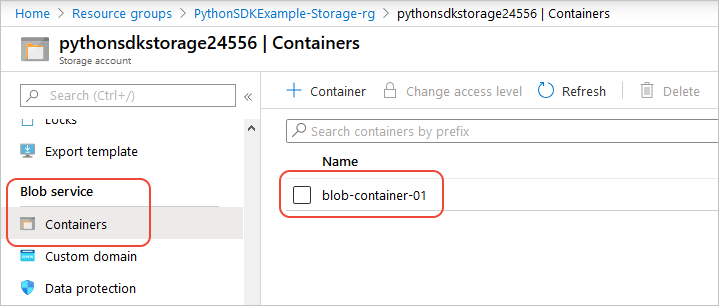
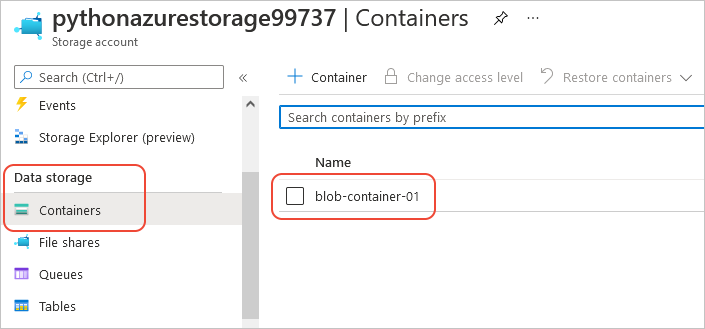
Update storage articles with code refs (and update images)

diff --git a/articles/python/azure-sdk-example-storage.md b/articles/python/azure-sdk-example-storage.md
@@ -1,7 +1,7 @@
 ---
 title: Provision Azure Storage with the Azure libraries for Python
 description: Use the Azure SDK for Python libraries to provision a blob container in an Azure Storage account and then upload a file to that container.
-ms.date: 03/16/2021
+ms.date: 06/24/2021
 ms.topic: conceptual
 ms.custom: devx-track-python, devx-track-azurecli
 ---
@@ -16,7 +16,7 @@ All the commands in this article work the same in Linux/macOS bash and Windows c
 
 ## 1: Set up your local development environment
 
-If you haven't already, follow all the instructions on [Configure your local Python dev environment for Azure](configure-local-development-environment.md).
+If you haven't already, **follow all the instructions** on [Configure your local Python dev environment for Azure](configure-local-development-environment.md).
 
 Be sure to create a service principal for local development, and create and activate a virtual environment for this project.
 
@@ -24,11 +24,7 @@ Be sure to create a service principal for local development, and create and acti
 
 1. Create a *requirements.txt* file that lists the management libraries used in this example:
 
-    ```txt
-    azure-mgmt-resource
-    azure-mgmt-storage
-    azure-identity
-    ```
+    :::code language="text" source="~/../python-sdk-examples/storage/requirements_provision.txt":::
 
 1. In your terminal with the virtual environment activated, install the requirements:
 
@@ -42,97 +38,7 @@ This section describes how to provision storage resources from Python code. If y
 
 Create a Python file named *provision_blob.py* with the following code. The comments explain the details:
 
-```python
-import os, random
-
-# Import the needed management objects from the libraries. The azure.common library
-# is installed automatically with the other libraries.
-from azure.identity import AzureCliCredential
-from azure.mgmt.resource import ResourceManagementClient
-from azure.mgmt.storage import StorageManagementClient
-
-# Acquire a credential object using CLI-based authentication.
-credential = AzureCliCredential()
-
-# Retrieve subscription ID from environment variable.
-subscription_id = os.environ["AZURE_SUBSCRIPTION_ID"]
-
-# Obtain the management object for resources.
-resource_client = ResourceManagementClient(credential, subscription_id)
-
-# Constants we need in multiple places: the resource group name and the region
-# in which we provision resources. You can change these values however you want.
-RESOURCE_GROUP_NAME = "PythonAzureExample-Storage-rg"
-LOCATION = "centralus"
-
-# Step 1: Provision the resource group.
-
-rg_result = resource_client.resource_groups.create_or_update(RESOURCE_GROUP_NAME,
-    { "location": LOCATION })
-
-print(f"Provisioned resource group {rg_result.name}")
-
-# For details on the previous code, see Example: Provision a resource group
-# at https://docs.microsoft.com/azure/developer/python/azure-sdk-example-resource-group
-
-
-# Step 2: Provision the storage account, starting with a management object.
-
-storage_client = StorageManagementClient(credential, subscription_id)
-
-# This example uses the CLI profile credentials because we assume the script
-# is being used to provision the resource in the same way the Azure CLI would be used.
-
-STORAGE_ACCOUNT_NAME = f"pythonazurestorage{random.randint(1,100000):05}"
-
-# You can replace the storage account here with any unique name. A random number is used
-# by default, but note that the name changes every time you run this script.
-# The name must be 3-24 lower case letters and numbers only.
-
-
-# Check if the account name is available. Storage account names must be unique across
-# Azure because they're used in URLs.
-availability_result = storage_client.storage_accounts.check_name_availability(
-    { "name": STORAGE_ACCOUNT_NAME }
-)
-
-if not availability_result.name_available:
-    print(f"Storage name {STORAGE_ACCOUNT_NAME} is already in use. Try another name.")
-    exit()
-
-# The name is available, so provision the account
-poller = storage_client.storage_accounts.begin_create(RESOURCE_GROUP_NAME, STORAGE_ACCOUNT_NAME,
-    {
-        "location" : LOCATION,
-        "kind": "StorageV2",
-        "sku": {"name": "Standard_LRS"}
-    }
-)
-
-# Long-running operations return a poller object; calling poller.result()
-# waits for completion.
-account_result = poller.result()
-print(f"Provisioned storage account {account_result.name}")
-
-
-# Step 3: Retrieve the account's primary access key and generate a connection string.
-keys = storage_client.storage_accounts.list_keys(RESOURCE_GROUP_NAME, STORAGE_ACCOUNT_NAME)
-
-print(f"Primary key for storage account: {keys.keys[0].value}")
-
-conn_string = f"DefaultEndpointsProtocol=https;EndpointSuffix=core.windows.net;AccountName={STORAGE_ACCOUNT_NAME};AccountKey={keys.keys[0].value}"
-
-print(f"Connection string: {conn_string}")
-
-# Step 4: Provision the blob container in the account (this call is synchronous)
-CONTAINER_NAME = "blob-container-01"
-container = storage_client.blob_containers.create(RESOURCE_GROUP_NAME, STORAGE_ACCOUNT_NAME, CONTAINER_NAME, {})
-
-# The fourth argument is a required BlobContainer object, but because we don't need any
-# special values there, so we just pass empty JSON.
-
-print(f"Provisioned blob container {container.name}")
-```
+:::code language="python" source="~/../python-sdk-examples/storage/provision_blob.py":::
 
 [!INCLUDE [cli-auth-note](includes/cli-auth-note.md)]
 
@@ -152,11 +58,11 @@ The script will take a minute or two to complete.
 
 ## 5: Verify the resources
 
-1. Open the [Azure portal](https://portal.azure.com) to verify that the resource group and storage account were provisioned as expected. You may need to select **Show hidden types** in the resource group to see a storage account provisioned from a Python script:
+1. Open the [Azure portal](https://portal.azure.com) to verify that the resource group and storage account were provisioned as expected. You may need to wait a minute and also select **Show hidden types** in the resource group to see a storage account provisioned from a Python script:
 
     ![Azure portal page for the new resource group, showing the storage account](media/azure-sdk-example-storage/portal-show-hidden-types.png)
 
-1. Select the storage account, then select **Blob service** > **Containers** in the left-hand menu to verify that the "bloc-container-01" appears:
+1. Select the storage account, then select **Data storage** > **Containers** in the left-hand menu to verify that the "blob-container-01" appears:
 
     ![Azure portal page for the storage account showing the blob container](media/azure-sdk-example-storage/portal-show-blob-containers.png)
 
@@ -170,51 +76,11 @@ The following Azure CLI commands complete the same provisioning steps as the Pyt
 
 # [cmd](#tab/cmd)
 
-```azurecli
-rem Provision the resource group
-
-az group create -n PythonAzureExample-Storage-rg -l centralus
-
-rem Provision the storage account
-
-az storage account create -g PythonAzureExample-Storage-rg -l centralus ^
-    -n pythonazurestorage12345 --kind StorageV2 --sku Standard_LRS
-
-rem Retrieve the connection string
-
-az storage account show-connection-string -g PythonAzureExample-Storage-rg ^
-    -n pythonazurestorage12345
-
-rem Provision the blob container; NOTE: this command assumes you have an environment variable
-rem named AZURE_STORAGE_CONNECTION_STRING with the connection string for the storage account.
-
-set AZURE_STORAGE_CONNECTION_STRING=<connection_string>
-az storage container create --account-name pythonazurestorage12345 -n blob-container-01
-```
+:::code language="azurecli" source="~/../python-sdk-examples/storage/provision.cmd":::
 
 # [bash](#tab/bash)
 
-```azurecli
-# Provision the resource group
-
-az group create -n PythonAzureExample-Storage-rg -l centralus
-
-# Provision the storage account
-
-az storage account create -g PythonAzureExample-Storage-rg -l centralus \
-    -n pythonazurestorage12345 --kind StorageV2 --sku Standard_LRS
-
-# Retrieve the connection string
-
-az storage account show-connection-string -g PythonAzureExample-Storage-rg \
-    -n pythonazurestorage12345
-
-# Provision the blob container; NOTE: this command assumes you have an environment variable
-# named AZURE_STORAGE_CONNECTION_STRING with the connection string for the storage account.
-
-AZURE_STORAGE_CONNECTION_STRING=<connection_string>
-az storage container create --account-name pythonazurestorage12345 -n blob-container-01
-```
+:::code language="azurecli" source="~/../python-sdk-examples/storage/provision.sh":::
 
 ---
 

diff --git a/articles/python/azure-sdk-example-storage-use.md b/articles/python/azure-sdk-example-storage-use.md
@@ -1,7 +1,7 @@
 ---
 title: Use Azure Storage with the Azure SDK for Python
 description: Use the Azure SDK for Python libraries to access a pre-provisioned blob container in an Azure Storage account and then upload a file to that container.
-ms.date: 03/16/2021
+ms.date: 06/24/2021
 ms.topic: conceptual
 ms.custom: devx-track-python, devx-track-azurecli
 ---
@@ -14,27 +14,15 @@ All the commands in this article work the same in Linux/macOS bash and Windows c
 
 ## 1: Set up your local development environment
 
-If you haven't already, follow all the instructions on [Configure your local Python dev environment for Azure](configure-local-development-environment.md).
+If you haven't already, **follow all the instructions** on [Configure your local Python dev environment for Azure](configure-local-development-environment.md).
 
 Be sure to create a service principal for local development, set environment variables for the service principal (see below), and create and activate a virtual environment for this project.
-
-This example assumes you've already set the following environment variables:
-
-| Variable name | Expected value |
-| --- | --- |
-| AZURE_SUBSCRIPTION_ID | The GUID of your Azure subscription. |
-| AZURE_CLIENT_ID | The client ID of your local service principal. |
-| AZURE_CLIENT_SECRET | The client secret of your service principal. |
-| AZURE_TENANT_ID | The tenant ID for your service principal. |
 
 ## 2: Install library packages
 
 1. In your *requirements.txt* file, add line for the needed client library package and save the file:
 
-    ```text
-    azure-storage-blob
-    azure-identity
-    ```
+    :::code language="text" source="~/../python-sdk-examples/storage/requirements_use.txt":::
 
 1. In your terminal or command prompt, reinstall requirements:
 
@@ -46,9 +34,7 @@ This example assumes you've already set the following environment variables:
 
 Create a source file named *sample-source.txt* (as the code expects), with contents like the following:
 
-```text
-Hello there, Azure Storage. I'm a friendly file ready to be stored in a blob.
-```
+:::code language="text" source="~/../python-sdk-examples/storage/sample-source.txt":::
 
 ## 4: Use blob storage from app code
 
@@ -88,26 +74,7 @@ For these reasons, we recommend using the authentication method in production co
 
 1. Create a file named *use_blob_auth.py* with the following code. The comments explain the steps.
 
-    ```python
-    import os
-    from azure.identity import DefaultAzureCredential
-
-    # Import the client object from the Azure library
-    from azure.storage.blob import BlobClient
-
-    credential = DefaultAzureCredential()
-
-    # Retrieve the storage blob service URL, which is of the form
-    # https://pythonazurestorage12345.blob.core.windows.net/
-    storage_url = os.environ["STORAGE_BLOB_URL"]
-
-    # Create the client object using the storage URL and the credential
-    blob_client = BlobClient(storage_url, container_name="blob-container-01", blob_name="sample-blob.txt", credential=credential)
-
-    # Open a local file and upload its contents to Blob Storage
-    with open("./sample-source.txt", "rb") as data:
-        blob_client.upload_blob(data)
-    ```
+    :::code language="python" source="~/../python-sdk-examples/storage/use_blob_auth.py":::
 
     Reference links:
       - [DefaultAzureCredential (azure.identity)](/python/api/azure-identity/azure.identity.defaultazurecredential)
@@ -119,7 +86,7 @@ For these reasons, we recommend using the authentication method in production co
     python use_blob_auth.py
     ```
 
-    Because the local service principal that you're using does not have permission to access the blob container, you see the error: "This request is not authorized to perform this operation using this permission."
+1. Because the local service principal that you're using does not have permission to access the blob container, **you should see the error** "This request is not authorized to perform this operation using this permission."
 
 1. Grant container permissions to the service principal using the Azure CLI command [az role assignment create](/cli/azure/role/assignment#az_role_assignment_create) (it's a long one!):
 
@@ -149,7 +116,7 @@ For these reasons, we recommend using the authentication method in production co
 
     The `--scope` argument in this command also uses the AZURE_CLIENT_ID and AZURE_SUBSCRIPTION_ID environment variables, which you should already have set in your local environment for your service principal by following [Configure your local Python dev environment for Azure](configure-local-development-environment.md).
 
-1. After waiting a minute or two for the permissions to propagate, run the code again to verify that it now works. If you see the permissions error again, wait a little longer, then try the code again.
+1. **Wait a minute or two for the permissions to propagate**, then run the code again to verify that it now works. If you see the permissions error again, wait a little longer, then try the code again.
 
 For more information on role assignments, see [How to assign role permissions using the Azure CLI](/azure/role-based-access-control/role-assignments-cli).
 
@@ -159,23 +126,7 @@ For more information on role assignments, see [How to assign role permissions us
 
 1. Create a Python file named *use_blob_conn_string.py* with the following code. The comments explain the steps.
 
-    ```python
-    import os
-
-    # Import the client object from the Azure library
-    from azure.storage.blob import BlobClient
-
-    # Retrieve the connection string from an environment variable.
-    conn_string = os.environ["AZURE_STORAGE_CONNECTION_STRING"]
-
-    # Create the client object for the resource identified by the connection string,
-    # indicating also the blob container and the name of the specific blob we want.
-    blob_client = BlobClient.from_connection_string(conn_string, container_name="blob-container-01", blob_name="sample-blob.txt")
-
-    # Open a local file and upload its contents to Blob Storage
-    with open("./sample-source.txt", "rb") as data:
-        blob_client.upload_blob(data)
-    ```
+    :::code language="python" source="~/../python-sdk-examples/storage/use_blob_conn_string.py":::
 
 1. Run the code:
 

diff --git a/articles/python/configure-local-development-environment.md b/articles/python/configure-local-development-environment.md
@@ -101,7 +101,7 @@ Each developer in your organization should perform these steps individually.
     set AZURE_SUBSCRIPTION_ID="aa11bb33-cc77-dd88-ee99-0918273645aa"
     set AZURE_TENANT_ID=00112233-7777-8888-9999-aabbccddeeff
     set AZURE_CLIENT_ID=12345678-1111-2222-3333-1234567890ab
-    set AZURE_CLIENT_SECRET=abcdef00-4444-5555-6666-1234567890ab
+    set AZURE_CLIENT_SECRET=oUBB11zz~JJJJ_~yyyyyyVVumumumumb_b
     ```
 
     # [bash](#tab/bash)
@@ -110,7 +110,7 @@ Each developer in your organization should perform these steps individually.
     AZURE_SUBSCRIPTION_ID="aa11bb33-cc77-dd88-ee99-0918273645aa"
     AZURE_TENANT_ID="00112233-7777-8888-9999-aabbccddeeff"
     AZURE_CLIENT_ID="12345678-1111-2222-3333-1234567890ab"
-    AZURE_CLIENT_SECRET="abcdef00-4444-5555-6666-1234567890ab"
+    AZURE_CLIENT_SECRET="oUBB11zz~JJJJ_~yyyyyyVVumumumumb_b"
     ```
 
     ---

diff --git a/articles/python/azure-sdk-example-list-resource-groups.md b/articles/python/azure-sdk-example-list-resource-groups.md
@@ -49,7 +49,7 @@ Create a Python file named *list_groups.py* with the following code. The comment
 
 Create a Python file named *list_resources.py* with the following code. The comments explain the details.
 
-By default, the code lists resources in "myResourceGroup". To use a different resource group, set the `RESOURCE_GROUP` environment variable to the desired group name.
+By default, the code lists resources in "myResourceGroup". To use a different resource group, set the `RESOURCE_GROUP_NAME` environment variable to the desired group name.
 
 :::code language="python" source="~/../python-sdk-examples/resource_group/list_resources.py":::
 
